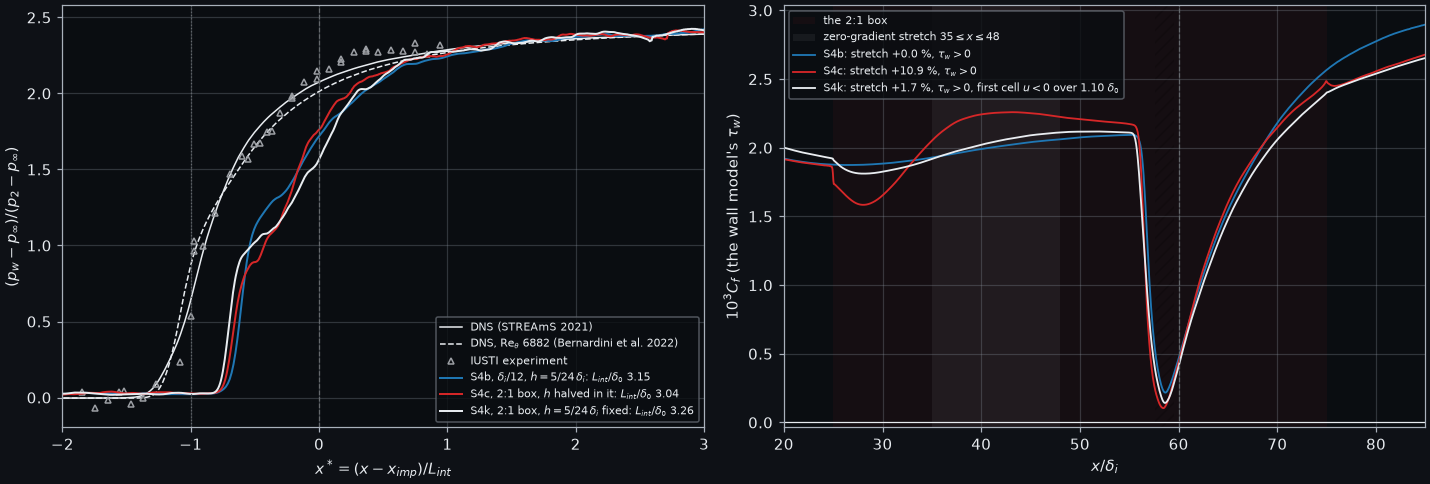
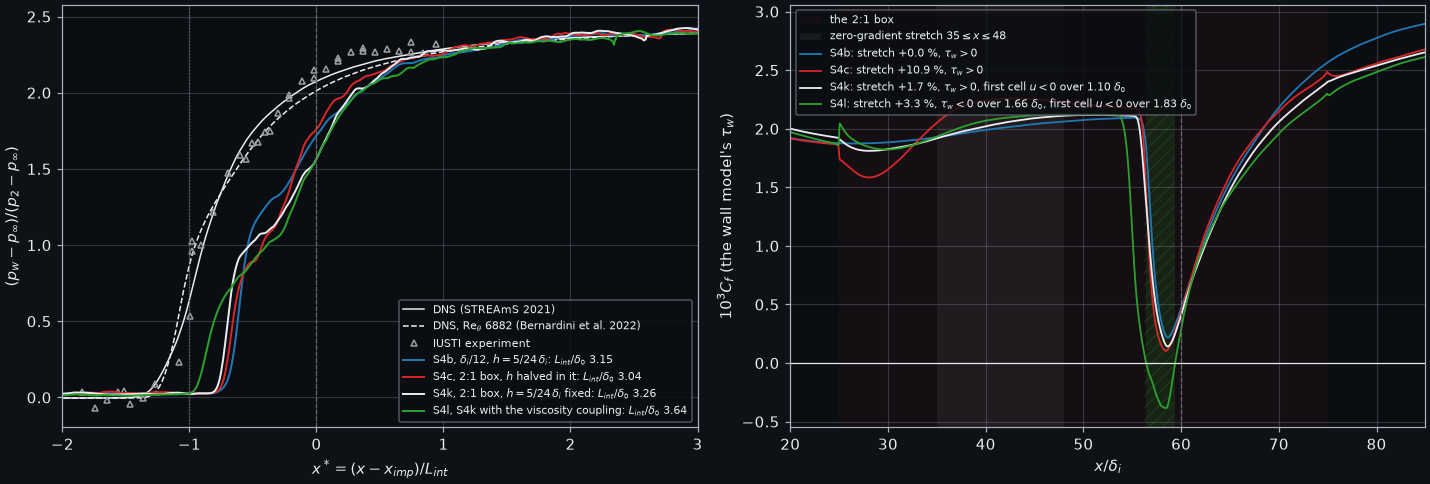
docs(flume): S4l, the viscosity coupling in the SBLI: the wall stress separates in the mean over 1.66 delta_0, L_int 10 % long, the zero-gradient stretch +3.3 % (#126)
S4k (1d0ccef2) restarted at t = 850 with `wall_model_coupling = viscosity` (the previous commit), to 1150 on two nodes (medooza
1367780, 8 A30, 18 h 38 min, 1.19 s per step); statistics over the span and the 20 checkpoints of 953 <= t <= 1150. Criteria fixed
before the run: (a) C_f over 35 <= x <= 48 within 2 % of S4b's; (b) a mean bubble from tau_w and L_int within 10 % of the DNS's.

- (b) half passes: C_f < 0 over 1.66 delta_0 (x* -0.56 to -0.10; the DNS 2.16, -0.8 to -0.15), the first time in the campaign; the
  compression starts 0.9 delta_0 earlier than S4k's (5 % of the rise 3.48 delta_0 ahead of x_imp, the DNS 4.13); L_int 3.64, 10.3 %
  above the DNS's 3.30 (bound 10 %). First-cell mean reversal 1.83 delta_0; a third of the first cells reversed in the window.
- (a) fails: +3.3 % (S4k +1.7 %). In the box the first cell spans ~21 wall units and its molecular stress is 94 % of the applied
  one in the mean, so max(molecular, model) takes the molecular one whenever the first cell runs fast: estimated +3.8 % with a
  steady model stress (rms of u_1 17 % of its mean), less with the model's own fluctuation; measured against S4k +1.6 %. A
  hypothesis (the model's own tau_w is not recorded apart); the flat-plate gate (next step) measures the zero-gradient layer.
- The no-slip ghosts slow the first cells: sonic height at x_imp - 5 delta_0 0.035 delta_0 (DNS 0.036, S4b 0.028). The stress jumps
[…]

diff --git a/src/tests/flume/verification/make_doc_figures.py b/src/tests/flume/verification/make_doc_figures.py
@@ -2955,13 +2955,15 @@ def fig_sbli_refined(out: Path, runs: Path) -> None:
 def fig_sbli_fixed_h(out: Path, runs: Path) -> None:
     """#121 S4k: the 2:1 box of S4c with the matching height fixed at S4b's, 5/24 delta_i (5 fine cells below it), restarted from S4c at t = 550,
     against S4b and S4c (h halved with the cells). Data: the sbli_oracle JSONs <runs>/sbli/sbli-m2p28-8.json (S4b), -r2.json (S4c), -r2h.json
-    (S4k). Left: the wall pressure against x* with the DNS and the IUSTI points; right: C_f against x, the box and the zero-gradient stretch
+    (S4k), -r2hv.json (S4l: S4k restarted at t = 850 with wall_model_coupling = viscosity, #126; its C_f is the applied stress, negative where
+    the first cell reverses). Left: the wall pressure against x* with the DNS and the IUSTI points; right: C_f against x, the box and the zero-gradient stretch
     35 <= x <= 48 shaded, each run's mean over that stretch against S4b's in the legend, the stretch where the time-mean u of the first cell is
     negative hatched (the JSON's l_sep_u1, when present)."""
     import json  # noqa: PLC0415
 
     runs_ = [("sbli-m2p28-8", "C0", r"S4b, $\delta_i/12$, $h = 5/24\,\delta_i$"), ("sbli-m2p28-8-r2", "C3", r"S4c, 2:1 box, $h$ halved in it"),
-             ("sbli-m2p28-8-r2h", "k", r"S4k, 2:1 box, $h = 5/24\,\delta_i$ fixed")]
+             ("sbli-m2p28-8-r2h", "k", r"S4k, 2:1 box, $h = 5/24\,\delta_i$ fixed"),
+             ("sbli-m2p28-8-r2hv", "C2", r"S4l, S4k with the viscosity coupling")]
     runs_ = [r for r in runs_ if (runs / "sbli" / f"{r[0]}.json").exists()]
     js = {name: json.loads((runs / "sbli" / f"{name}.json").read_text()) for name, _, _ in runs_}
 
@@ -3268,7 +3270,8 @@ def fig_sbli_reversal(out: Path, runs: Path) -> None:
     runs_ = [("s4b", "S4b", "C0"), ("s4c", "S4c, 2:1 box", "C2"), ("s4d", "S4d, $dp/dx$", "C3"), ("s4e", r"S4e, no $\nu_t$ below $h$", "C1"),
              ("s4f", r"S4f, $dp/dx$, no $\nu_t$", "C5"), ("s4g", "S4g, Bernoulli-consistent", "C4"), ("s4h", "S4h, convection-fed", "k"),
              ("s4i", "S4i, resolved stress removed", "C6"),
-             ("s4j", "S4j, the slow forcing", "C8"), ("s4k", r"S4k, 2:1 box, $h$ fixed", "C9")]
+             ("s4j", "S4j, the slow forcing", "C8"), ("s4k", r"S4k, 2:1 box, $h$ fixed", "C9"),
+             ("s4l", "S4l, viscosity coupling", "C7")]
     runs_ = [r for r in runs_ if (runs / "sbli" / f"rev2-{r[0]}.json").exists()]
     fig, axs = plt.subplots(1, 2, figsize=(13.0, 4.2), constrained_layout=True, gridspec_kw={"width_ratios": [1.6, 1.0]})
     first, third, labels, colors = [], [], [], []

diff --git a/docs/applications/flume/verification/streams/sbli.md b/docs/applications/flume/verification/streams/sbli.md
@@ -2,7 +2,7 @@
 
 | ID | Milestone | Type | Legs | Backends | Figure |
 |---|---|---|---|---|---|
-| — (campaign `tbl_cases_s4.txt`) | [#121](https://github.com/szaghi/adam/issues/121) · S4b–S4k | P | none (the pressure-gradient key: wm12) | FNL | yes |
+| — (campaign `tbl_cases_s4.txt`) | [#121](https://github.com/szaghi/adam/issues/121) · S4b–S4l | P | none (the pressure-gradient key: wm12) | FNL | yes |
 
 ## Case and scope
 
@@ -204,7 +204,54 @@ The two refined runs count fine cells, S4b coarse ones: the reversed fractions c
   and the model, which sees only the flow at $h$, keeps the positive $\tau_w$ of a forward flow over a reversed first cell.
 - **So the remaining gap is the coupling.** The face takes the model's $\tau_w$ whatever the first cell does; a coupling through the
   wall viscosity with the no-slip condition kept (De Vanna et al. 2022), where the first cell sets the sign of the wall stress, is
-  the next test ([wall models in the literature](#wall-models-for-this-interaction-in-the-literature)).
+  the next test ([wall models in the literature](#wall-models-for-this-interaction-in-the-literature)): S4l
+  ([below](#the-viscosity-coupling-s4l)).
+
+### The viscosity coupling: S4l
+
+S4k with the model coupled through the wall viscosity, the no-slip condition kept ([#126](https://github.com/szaghi/adam/issues/126),
+`wall_model_coupling = viscosity`, [turbulence](../../turbulence#viscosity-coupling)): the face stress is the larger of the first
+cell's molecular no-slip stress and the model's, along the first cell's wall-parallel velocity, so a reversed first cell reverses
+the wall stress. Otherwise S4k's set-up (plain equilibrium model, $h=5/24\,\delta_i$, eddy viscosity below $h$), restarted from S4k
+at $t=850$ to 1150 on two nodes (8 A30, 18 h 38 min, 1.19 s per step); the statistics take the span and the 20 checkpoints of
+$953\le t\le1150$ (`sbli_oracle.py compare --t0 950`). Criteria fixed before the run: (a) $C_f$ over $35\le x\le48$ within 2 % of
+S4b's; (b) a mean bubble from $\tau_w$ and $L_{int}$ within 10 % of the DNS's. $C_f$ is the stress applied (its $x$ component),
+negative where the first cell reverses; S4k's is the model's.
+
+| | S4l, viscosity coupling | S4k, flux coupling | S4b | DNS, $Re_\theta=6882$ |
+|---|---|---|---|---|
+| $Re_\theta$ at $x_{imp}$, nominal; $\delta_0$ | 5276; 1.757 | 5253; 1.783 | 5247; 1.807 | |
+| $C_f$ over $35\le x\le48$ against S4b | **+3.3 %** | +1.7 % | | |
+| $C_f$ against S4b: $x=15$–24 (outside the box), 25–35, 45–52, 64–70, 76–90 | +2.7, $-0.9$, +2.9, $-8.4$, $-9.8$ % | +4.2, $-2.2$, +2.2, $-4.5$, $-8.3$ % | | |
+| $L_{int}/\delta_0$ | **3.64** | 3.26 | 3.15 | 3.30 |
+| $L_{sep}/\delta_0$ from $\tau_w$ | **1.66**, $x=56.4$–59.4 ($x^*=-0.56$ to $-0.10$) | 0 | 0 | 2.16 ($x^*=-0.8$ to $-0.15$) |
+| $C_f$ minimum ($10^{-3}$) | $-0.39$ at $x=58.4$ | 0.14 at $x=58.6$ | 0.22 at $x=58.6$ | |
+| time-mean $u<0$: first, second, third cell | 1.83, 1.14, $0.64\,\delta_0$ | 1.10, $0.68\,\delta_0$, none | none | |
+| 5 % / 50 % of the rise, $\delta_0$ ahead of $x_{imp}$ | 3.48 / 2.93 | 2.58 / 2.28 | 2.34 / 1.96 | 4.13 / 3.60 |
+| $(p_w-p_\infty)/(p_2-p_\infty)$ at $x^*=-0.5$, 0, 0.5, 1, 2 | 0.89, 1.56, 2.09, 2.23, 2.35 | 1.02, 1.57, 2.11, 2.28, 2.39 | 1.12, 1.72, 2.09, 2.24, 2.37 | 1.75, 2.07, 2.22, 2.29, 2.36 |
+| sonic height at $x_{imp}-5\,\delta_0$, $\delta_0$ | 0.035 | | 0.028 | 0.036 |
+| reversed area per unit span, mean (max), $\delta_0^2$ | 0.188 (0.217) | 0.115 (0.138) | 0.068 (0.142) | |
+| first / third cells reversed in the window | 33.4 % / 18.9 % | 23.4 % / 12.6 % | 9.5 % / 5.1 % | |
+
+The green line of [the figure above](#the-matching-height-fixed-s4k); the reversed flow per checkpoint in
+[the reversal figure](#the-reversed-flow-the-dns-s-bubble-and-the-runs-below-the-sample).
+
+- **(b) half passes: the wall stress separates in the mean, for the first time in this campaign.** $C_f<0$ over $1.66\,\delta_0$,
+  three quarters of the DNS's bubble, at its downstream end ($x^*=-0.56$ to $-0.10$ against $-0.8$ to $-0.15$). The compression starts
+  $0.9\,\delta_0$ earlier than S4k's (5 % of the rise $3.48\,\delta_0$ ahead of $x_{imp}$, the DNS's 4.13), and the reversed flow
+  grows: the first cells reverse in the mean over $1.83\,\delta_0$, a third of them in the window. $L_{int}$ overshoots:
+  3.64, 10.3 % above the DNS's 3.30, just outside the bound (Volpiani et al.'s 3.22 at $Re_\theta=1050$).
+- **(a) fails: the stretch $35\le x\le48$ is 3.3 % above S4b's** (S4k's 1.7 %). In the box the first cell spans about 21 wall
+  units, and its molecular no-slip stress is 94 % of the applied one in the mean: close enough that the maximum takes it whenever
+  the first cell runs faster than its mean. With the first cell's fluctuation (rms 17 % of its mean there) and a steady model
+  stress that bias would be +3.8 %; the model's stress fluctuates with the flow, so the bias is smaller, and the measured shift
+  against S4k is +1.6 %. A hypothesis: the model's own $\tau_w$ is not recorded apart from the applied one. The shift is also of
+  the size of the scatter of S4k's own bands against S4b (from $-2.2$ to +4.2 %) on a window of 200 time units after a restart;
+  the flat-plate gate of the same coupling (T-rs, [boundary layer](../turbulence/boundary-layer)) measures the zero-gradient
+  layer apart. The no-slip ghosts slow the first cells: the sonic height at
+  $x_{imp}-5\,\delta_0$ is the DNS's, $0.035\,\delta_0$ against 0.036, where S4b's is 0.028. The stress also jumps at the 2:1
+  face ($x=25$, +10 % over about $3\,\delta_i$), which the flux coupling does not.
+- **Behind the interaction the layer recovers more slowly** ($C_f$ 8 to 10 % below S4b's over $64\le x\le90$, S4k's 4 to 8 %).
 
 ## The wall model with the pressure gradient
 
@@ -756,7 +803,7 @@ sample weighs $e^{-3}$; the olive line of [the figure above](#the-pressure-gradi
 
 ## Not done
 
-- A separation of the right length and place. The equilibrium-type models do not give it: the pressure gradient alone opens $0.6\,\delta_0$ by an inconsistent balance, the consistent one none, the slower near-wall layer $0.14\,\delta_0$ ([above](#the-pressure-gradient-without-the-convection-with-it-and-without-the-eddy-viscosity)). The model fed with the resolved convection (S4h) moves the onset and $L_{int}$ the right way and opens $0.18\,\delta_0$ where the DNS's bubble begins, but counts the resolved stress twice ($C_f$ of the zero-gradient layer +5 to +12 %). With the resolved stress removed and the velocity scale from $\tau_w$ (S4i) it passes the zero-gradient layer, but the scale collapses under the adverse gradient: $\tau_w<0$ under a forward first cell and a shorter interaction ([above](#the-run-s4i)). Velocity scales meant to keep the mean forcing without its fluctuation, tested a priori on both flows ([above](#a-priori-the-velocity-scale-of-the-eddy-viscosity)): only the slow forcing, in both the balance and S4h's scale $|\tau_w|+|\bar S|$, keeps the zero-gradient layer; run as S4j ([above](#the-run-s4j)) it keeps the incoming layer and returns the interaction to S4b's (no bubble beyond $0.14\,\delta_0$, the compression $0.25\,\delta_0$ later). No wall model tried here, equilibrium-type or fed with the resolved convection, both consistent on the zero-gradient layer and closer to the DNS in the interaction. A matching height fixed in $\delta_i$ across the levels, with 5 cells below it in a 2:1 box (S4k, [above](#the-matching-height-fixed-s4k)), keeps the zero-gradient layer within 1.7 % and gives $L_{int}$ 3.26 and a mean reversed first cell over $1.10\,\delta_0$, under a wall stress that stays positive: the bubble lies below the matching height, which the flux coupling of the face cannot see. Left: the coupling through a wall viscosity with the no-slip condition kept (De Vanna et al. 2022), and a matching height fixed in $\delta$ above the DNS's bubble (about $4h$ tall).
+- A separation of the right length and place. The equilibrium-type models do not give it: the pressure gradient alone opens $0.6\,\delta_0$ by an inconsistent balance, the consistent one none, the slower near-wall layer $0.14\,\delta_0$ ([above](#the-pressure-gradient-without-the-convection-with-it-and-without-the-eddy-viscosity)). The model fed with the resolved convection (S4h) moves the onset and $L_{int}$ the right way and opens $0.18\,\delta_0$ where the DNS's bubble begins, but counts the resolved stress twice ($C_f$ of the zero-gradient layer +5 to +12 %). With the resolved stress removed and the velocity scale from $\tau_w$ (S4i) it passes the zero-gradient layer, but the scale collapses under the adverse gradient: $\tau_w<0$ under a forward first cell and a shorter interaction ([above](#the-run-s4i)). Velocity scales meant to keep the mean forcing without its fluctuation, tested a priori on both flows ([above](#a-priori-the-velocity-scale-of-the-eddy-viscosity)): only the slow forcing, in both the balance and S4h's scale $|\tau_w|+|\bar S|$, keeps the zero-gradient layer; run as S4j ([above](#the-run-s4j)) it keeps the incoming layer and returns the interaction to S4b's (no bubble beyond $0.14\,\delta_0$, the compression $0.25\,\delta_0$ later). No wall model tried here, equilibrium-type or fed with the resolved convection, both consistent on the zero-gradient layer and closer to the DNS in the interaction. A matching height fixed in $\delta_i$ across the levels, with 5 cells below it in a 2:1 box (S4k, [above](#the-matching-height-fixed-s4k)), keeps the zero-gradient layer within 1.7 % and gives $L_{int}$ 3.26 and a mean reversed first cell over $1.10\,\delta_0$, under a wall stress that stays positive: the bubble lies below the matching height, which the flux coupling of the face cannot see. Coupled through the wall viscosity with the no-slip condition kept (De Vanna et al. 2022; S4l, [above](#the-viscosity-coupling-s4l)) the wall stress separates in the mean over $1.66\,\delta_0$, three quarters of the DNS's bubble, and the compression starts $0.9\,\delta_0$ earlier, but $L_{int}$ overshoots by 10.3 % and the zero-gradient stretch is 3.3 % above S4b's. Left: the onset still $0.25\,\delta_0$ behind the DNS's bubble, and a matching height fixed in $\delta$ above the DNS's bubble (about $4h$ tall).
 - The late compression ($x^*\approx-0.6$ half-way against the DNS's $-1.1$), unchanged by the near-wall grid and by the pressure-gradient term; moved 40 % of the way by taking out the eddy viscosity below $h$ (S4e), which also moves the incoming layer off the DNS's: the matching between the model and the resolved near-wall cells.
 - The wall-pressure fluctuations and the low-frequency unsteadiness.
 - The recycling–rescaling inflow (S5).

diff --git a/docs/applications/flume/verification/streams/index.md b/docs/applications/flume/verification/streams/index.md
@@ -52,10 +52,11 @@ The toolchain is [#121](https://github.com/szaghi/adam/issues/121), which contin
 | S4i | And the resolved stress removed, the velocity scale from $\tau_w$ (`wall_model_resolved_stress`): passes the zero-gradient layer; in the interaction $\tau_w<0$ under a forward first cell, $L_{int}$ 2.94 | wm13 (turbulence); a run restarted from S4b | [Shock/boundary-layer interaction](./sbli#the-run-s4i) |
 | S4j | The slow forcing (`wall_model_velocity_scale = sum`, the resolved stress removed, the forcing filtered over 100): the incoming layer within 2 % of S4b's, the interaction S4b's ($L_{int}$ 3.12, $L_{sep}$ 0.14) | wm13 (turbulence); a run restarted from S4b | [Shock/boundary-layer interaction](./sbli#the-run-s4j) |
 | S4k | The 2:1 box of S4c with the matching height fixed at S4b's, $5/24\,\delta_i$ (`wall_model_height`): the zero-gradient layer within 1.7 % of S4b's, $L_{int}$ 3.26, a mean reversed first cell over $1.10\,\delta_0$ under a positive $\tau_w$ | a run restarted from S4c | [Shock/boundary-layer interaction](./sbli#the-matching-height-fixed-s4k) |
+| S4l | S4k with the viscosity coupling (`wall_model_coupling = viscosity`, #126): the wall stress separates in the mean over $1.66\,\delta_0$, $L_{int}$ 3.64 (10.3 % above the DNS's), the zero-gradient stretch 3.3 % above S4b's | wm14 (turbulence); a run restarted from S4k | [Shock/boundary-layer interaction](./sbli#the-viscosity-coupling-s4l) |
 | S5 | Recycling–rescaling turbulent inflow | — | not started |
 
 | Page | Phases | Legs | Type |
 |---|---|---|---|
 | [Non-reflecting boundary](./non-reflecting) | S2 | nr1–nr4 | P |
 | [Shock generator](./shock-generator) | S3, S4a | sg1–sg4 (boundary) | P |
-| [Shock/boundary-layer interaction](./sbli) | S4b–S4k | campaign | P |
+| [Shock/boundary-layer interaction](./sbli) | S4b–S4l | campaign | P |

diff --git a/docs/applications/flume/turbulence.md b/docs/applications/flume/turbulence.md
@@ -377,6 +377,11 @@ Measured by `test_wall_model`: forward and reversed first cells, the larger of t
 Leg wm14 of `turbulence/check.sh`: the key acts against `flux`, an explicit `flux` agrees with the default, the block layouts and rank
 counts agree, the CPU and the GPU agree, and on a laminar channel the history's $\tau_w$ balances the driving force.
 
+In the shock/boundary-layer interaction ([S4l](./verification/streams/sbli#the-viscosity-coupling-s4l)) the wall stress separates
+in the mean over $1.66\,\delta_0$, where the flux coupling's stays positive, and $L_{int}$ is 10.3 % above the DNS's. On that grid
+the first cell's molecular stress is 94 % of the applied one ahead of the interaction, so the maximum can raise the zero-gradient
+stress (there 3.3 % above S4b's, 1.6 % above S4k's).
+
 ### Limits
 
 - Isothermal walls only.
